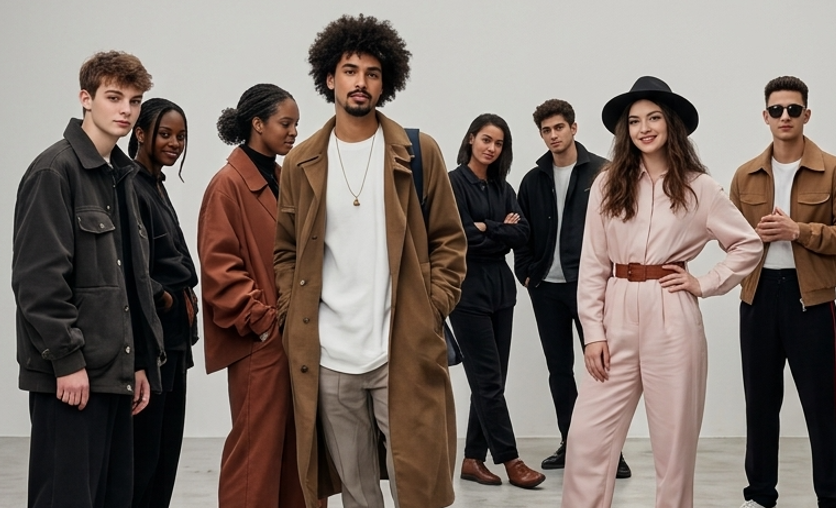
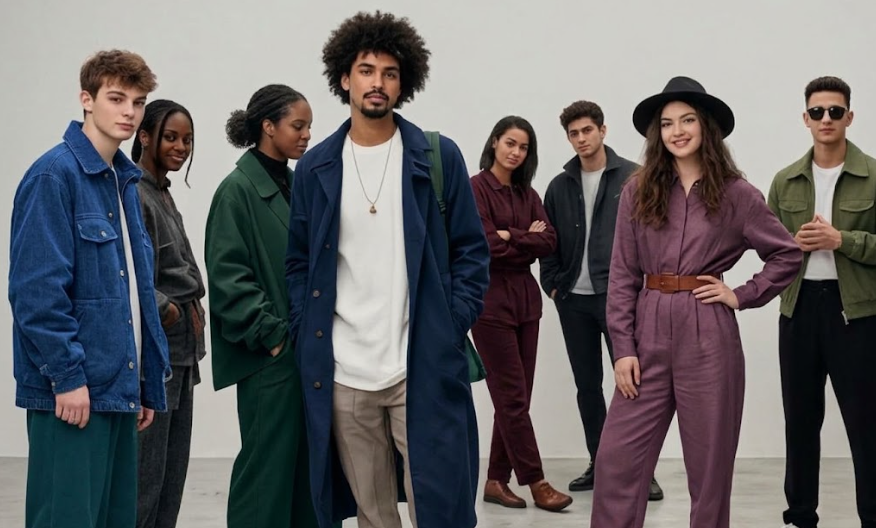
home page ui complete

diff --git a/frontend/src/components/Products/FeaturesSection.jsx b/frontend/src/components/Products/FeaturesSection.jsx
@@ -1,0 +1,44 @@
+import { HiShoppingBag } from "react-icons/hi2";
+import { HiMiniArrowPathRoundedSquare } from "react-icons/hi2";
+import { HiOutlineCreditCard } from "react-icons/hi2";
+
+const FeaturesSection = () => {
+  return (
+    <section className='py-16 px-4'> 
+      <div className='container mx-auto grid grid-cols-1 md:grid-cols-3 gap-8 text-center'>
+        {/* Feature 1 */}
+        <div className='flex flex-col items-center'>
+            <div className='p-4 rounded-full mb-4'>
+                <HiShoppingBag className="text-xl"/>
+            </div>
+            <h4 className="text-amber-900 tracking-tighter mb-2">
+                WORLDWIDE SHIPPING. OUR TREAT.
+            </h4>
+            <p className=" text-sm tracking-tighter">Available on every ৳100+ order.</p>
+        </div>
+         {/* Feature 2 */}
+        <div className='flex flex-col items-center'>
+            <div className='p-4 rounded-full mb-4'>
+                <HiMiniArrowPathRoundedSquare  className="text-xl"/>
+            </div>
+            <h4 className="text-amber-900 tracking-tighter mb-2">
+                60 DAYS RETURN WINDOW.
+            </h4>
+            <p className=" text-sm tracking-tighter">MONEY BACK GUARANTEE.</p>
+        </div>
+         {/* Feature 3 */}
+        <div className='flex flex-col items-center'>
+            <div className='p-4 rounded-full mb-4'>
+                <HiOutlineCreditCard  className="text-xl"/>
+            </div>
+            <h4 className="text-amber-900 tracking-tighter mb-2">
+                SAFE. SIMPLE. SECURE.
+            </h4>
+            <p className=" text-sm tracking-tighter">Your checkout details are handled with care.</p>
+        </div>
+      </div>
+    </section>
+  )
+}
+
+export default FeaturesSection

diff --git a/frontend/src/components/Products/ProductDetails.jsx b/frontend/src/components/Products/ProductDetails.jsx
@@ -136,10 +136,10 @@ const ProductDetails = () => {
                             {selectedProduct.originalPrice && `${selectedProduct.originalPrice}`}
                         </p>
                         <p className="text-xl text-amber-950 mb-2">
-                            ${selectedProduct.price}
+                            ৳ {selectedProduct.price}
                         </p>
                         <p className="text-amber-950 mb-4">
-                            ৳{selectedProduct.description}
+                            {selectedProduct.description}
                         </p>
                         <div className="mb-4">
                             <p className="text-amber-950">Color:</p>

diff --git a/frontend/src/components/Products/FeaturedCollection.jsx b/frontend/src/components/Products/FeaturedCollection.jsx
@@ -17,7 +17,7 @@ const FeaturedCollection = () => {
                     <p className='text-lg text-amber-100 mb-6'>
                         Redefine your everyday look with versatile essentials, effortless fits, and a style that speaks for itself.
                     </p>
-                    <Link to="/collections/all" className='bg-black text-white px-6 py-3 rounded-lg text-lg hover:bg-amber-950'>
+                    <Link to="/collections/all" className='bg-amber-950 text-white px-6 py-3 rounded-lg text-lg hover:bg-black'>
                         Shop now
                     </Link>
                 </div>

diff --git a/frontend/src/pages/Home.jsx b/frontend/src/pages/Home.jsx
@@ -1,5 +1,6 @@
 import Hero from "../components/Layout/Hero"
 import FeaturedCollection from "../components/Products/FeaturedCollection"
+import FeaturesSection from "../components/Products/FeaturesSection"
 import GenderCollectionSection from "../components/Products/GenderCollectionSection"
 import NewArrivals from "../components/Products/NewArrivals"
 import ProductDetails from "../components/Products/ProductDetails"
@@ -76,6 +77,7 @@ const Home = () => {
       </div>
 
       <FeaturedCollection/>
+      <FeaturesSection/>
     </div>
   )
 }
